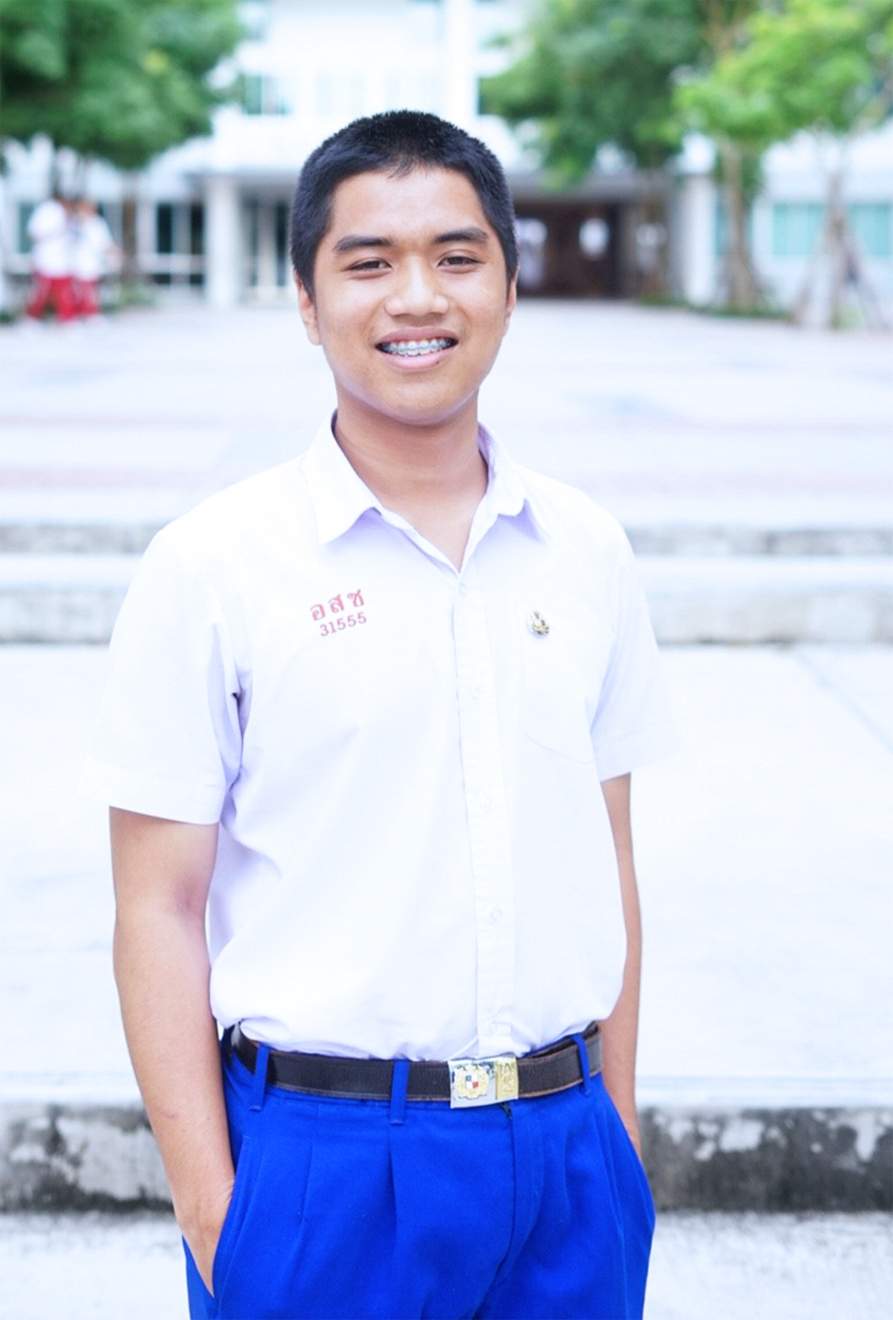
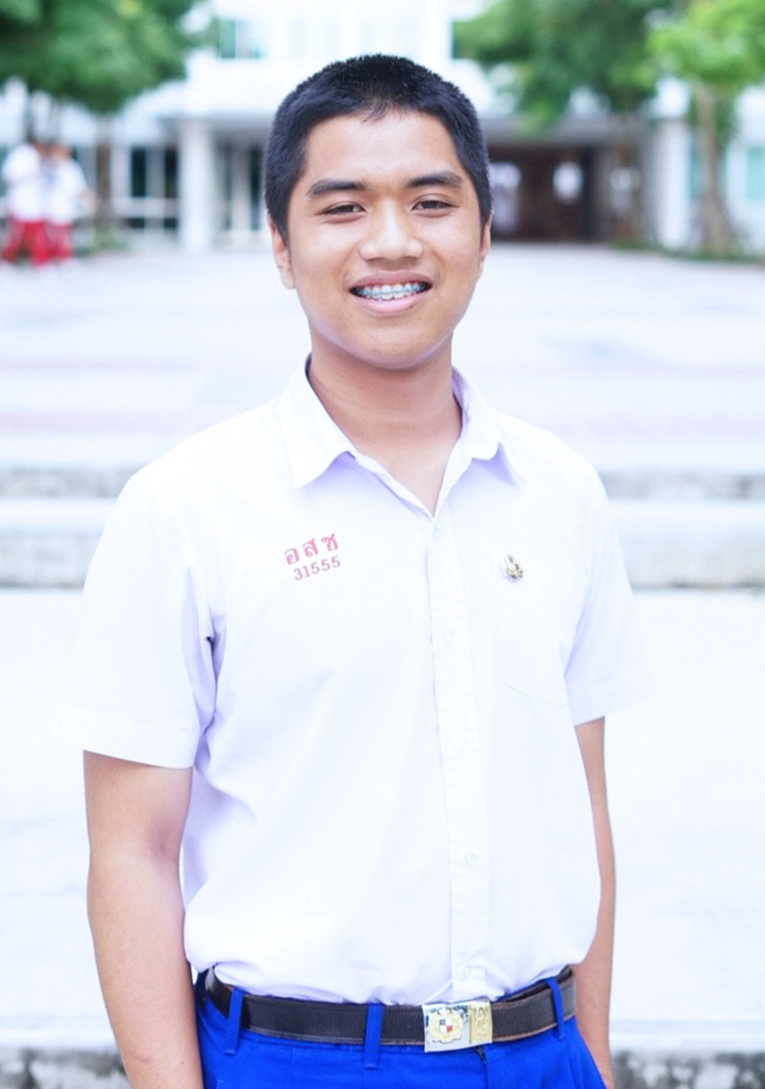
[UPDATE] Update Profiles

diff --git a/index.html b/index.html
@@ -1,105 +1,182 @@
 <!DOCTYPE html>
 <html>
+
 <head>
 	<title>Portfolio</title>
 	<link rel="stylesheet" type="text/css" href="styles.css">
 	<link rel="stylesheet" type="text/css" href="hover.css">
 	<script type="text/javascript" src="js/jquery-3.3.1.min.js"></script>
-	<link rel="icon" href="favicon.ico" type="image/x-icon"/>
+	<link rel="icon" href="favicon.ico" type="image/x-icon" />
+	<link rel="preconnect" href="https://fonts.gstatic.com">
+	<link href="https://fonts.googleapis.com/css2?family=Teko:wght@400;600&display=swap" rel="stylesheet">
 </head>
+
 <body>
-  <div class="title fade-in">PORTFOLIO</div>
-  <div class="header-container fade-in fade-in-delayed">
-  	<div class="imgdiv">
-  	 <img src="img/profile.jpg">	
-  	</div>
-  	<div class="profile-container">
-  		<div class="list-member"><p><span class="bold">Name</span> Ruangrit Kaewkrom</p></div>
-        <div class="list-member"><p><span class="bold">Age</span> 18</p></div>
-        <div class="list-member"><p><span class="bold">School</span> Assumption College Sriracha</p></div>
-        <div class="list-member"><p><span class="bold">Nationality</span> Thai</p></div>
-  	</div>
-  </div>
-   <div class="graph-container fade-in fade-in-delayed2">
-   	<h1>Computer Related Skills</h1>
-   <div class="graph container"></div>
-    <p>HTML&CSS</p>
-<div class="container">
-  <div class="skills html">Proficient</div>
-</div>
+	<div class="title fade-in">Online Portfolio</div>
+	<div class="header-container fade-in fade-in-delayed">
+		<div class="image-container">
+			<img src="img/profile.jpg">
+		</div>
+		<div class="profile-container">
+			<div class="list-member">
+				<p><span class="bold">Name</span> Ruangrit Kaewkrom</p>
+			</div>
+			<div class="list-member">
+				<p><span class="bold">Age</span> <em>(17 November 1999)</em></p>
+			</div>
+			<div class="list-member">
+				<p><span class="bold">College</span> King Mongkut's University of Technology Thonburi</p>
+			</div>
+			<div class="list-member">
+				<p><span class="bold">Nationality</span> Thai</p>
+			</div>
+			
+			<div class="list-member">
+			<a target="_blank" href="https://github.com/akira2542"><button class="button hvr-sweep-to-left">GitHub</button></a>
+			</div>
 
-<p>Java</p>
-<div class="container">
-  <div class="skills java">Beginner</div>
-</div>
-<p>Phyton</p>
-<div class="container">
-  <div class="skills python">Beginner</div>
-</div>
-<p>JavaScript</p>
-<div class="container">
-  <div class="skills js">Novice</div>
-</div>
+		</div>
+	</div>
+	<div class="graph-container fade-in fade-in-delayed2">
+		<h1>Computer Related Skills</h1>
+		<div class="graph container"></div>
+		<p>HTML&CSS</p>
+		<div class="container">
+			<div class="skills html">Expert</div>
+		</div>
 
-<p>PHP</p>
-<div class="container">
-  <div class="skills php">Novice</div>
-</div>
-</div>
-<div class="infotext fade-in fade-in-delayed3">
-<p>Able to utilize or have experince with</p>
-<div class="infotext-container">
-	<div class="coloredbutton purple hvr-float-shadow">Bootstrap</div>・<div class="coloredbutton blue hvr-float-shadow">Jquery</div>・
-	<div class="coloredbutton lightblue hvr-float-shadow">React</div>・<div class="coloredbutton green hvr-float-shadow">NodeJS</div>・<div class="coloredbutton orange hvr-float-shadow">Linux</div>
-</div>
-</div>
+		<p>Java</p>
+		<div class="container">
+			<div class="skills java">Proficient</div>
+		</div>
+		<p>Phyton</p>
+		<div class="container">
+			<div class="skills python">Beginner</div>
+		</div>
+		<p>JavaScript</p>
+		<div class="container">
+			<div class="skills js">Proficient</div>
+		</div>
 
- <div class="worklist fade-in fade-in-delayed4">
-    <h1>My Project</h1>
- 	<div class="worklist-container">
- 		<div class="worklist-member hvr-underline-from-left" id="CPS">
- 			<p>Computer Project SaleTrack ⭳</p>
- 		</div>	
- 		<div class="worklist-info" id="saletrackinfo">
- 			<div class="saletrack-title">SALETRACK</div>
- 			<div class="image-container">
- 				<img src="img/saletrack-1.jpg"><img src="img/saletrack-2.jpg">
- 			</div>
- 			<p>โครงงานคอมพิวเตอร์โรงเรียนอัสสัมชัญศรีราชา ของผม SaleTrack
-เป็น Web-Application ที่ทำหน้าที่เป็นโปรเเกรมบันทึกการขายสินค้าต่างๆ
-เเละสรุแข้อมูลออกมาให้เห็น เพื่อให้ง่ายต่อการติดตามยอดขาย กำไร
-ของสินค้าหลายๆชิ้น ออกเเบบมาเพื่อ ผู้ที่ทำธุรกิจขายของขนาดย่อม
-โดย Web-Application มีภาษา Back-End เป็น PHP 
-โดยใช้ Apache Webserver โดยมี mySQL เป็น Database
-มีความพิเศษคือจัดการ Database ต่างๆด้วย PHP การเก็บข้อมูลเเยกระหว่างสินค้า ต่างๆ การดึงข้อมูลละวันที่ออกมาเเสดงผล</p>
- 			<p>This handy web-app is made for small enterprenuer who want an easy way to keep track of the products they're selling. Me,the creator of this website,my self also once was a petty enterprenuer selling cheap products in small quantities find it pretty hard to keep track of everything I sell. I hope this site will be someone's life a littlebit easier!</p>
- 			<a href="http://myaws2018.bitnamiapp.com"><button class="button2">Visit Website</button></a>
-      <a href="https://github.com/akira2542/SaleTrack"><button class="button">GitHub Repository</button></a>
-      
- 		</div>
- 		<div class="worklist-member hvr-underline-from-left" id="mlq">
- 			<p>Responsive Web blog (Midline-Question) ⭳</p>
- 		</div>
- 		 		<div class="worklist-info" id="mlqinfo">
- 			<div class="midline-title">Midline-Question</div>
- 			<div class="image-container" id="muimg">
- 				<img src="img/mu1.JPG"><img src="img/mu2.JPG"><img src="img/mu3.JPG">
- 			</div>
- 			<p>เป็นเว็บบล็อคเเรกที่ผมเขียนขึ้นมา เป็นเว็บที่ออกมาเเบบ Responsive โปรเจ็คนี้ผมได้ใส่ระบบสมัคร เเละล็อค อินเข้าไป เขียนด้วย PHP เป็นภาษา Back-End</p>
- 			<a href="http://myaws2018.bitnamiapp.com/mq"><button class="button2">Visit Website</button></a>
-      <a href="https://github.com/akira2542/Midline-Question"><button class="button">GitHub Repository</button></a>
-      
- 		</div>
- 	</div>
-</div>
+		<p>PHP</p>
+		<div class="container">
+			<div class="skills php">Novice</div>
+		</div>
+	</div>
+	<div class="infotext fade-in fade-in-delayed3">
+		<p>Able to utilize or have experince with</p>
+		<div class="infotext-container">
+			<div class="coloredbutton purple">Bootstrap</div>・<div
+				class="coloredbutton blue">Jquery</div>・
+			<div class="coloredbutton lightblue">ReactJs</div>・<div
+				class="coloredbutton green">Laravel</div>・<div
+				class="coloredbutton orange">Linux</div>・<div
+				class="coloredbutton green">NextJs</div>
+		</div>
+	</div>
 
-<script type="text/javascript">
-          $( "#CPS" ).click(function() {
-          $("#saletrackinfo").slideToggle(500);
-  });
-          $( "#mlq" ).click(function() {
-          $("#mlqinfo").slideToggle(500);
-  });
-</script>
+	<div class="worklist fade-in fade-in-delayed4">
+		<h1>My Project</h1>
+		<div class="worklist-container">
+			<div class="worklist-member hvr-underline-from-left" id="CPS">
+				<p>Computer Project SaleTrack ⭳</p>
+			</div>
+			<div class="worklist-info" id="saletrackinfo">
+				<div class="saletrack-title">SALETRACK</div>
+				<div class="image-container">
+					<img src="img/saletrack-1.jpg"><img src="img/saletrack-2.jpg">
+				</div>
+				<p>โครงงานคอมพิวเตอร์โรงเรียนอัสสัมชัญศรีราชา ของผม SaleTrack
+					เป็น Web-Application ที่ทำหน้าที่เป็นโปรเเกรมบันทึกการขายสินค้าต่างๆ
+					เเละสรุแข้อมูลออกมาให้เห็น เพื่อให้ง่ายต่อการติดตามยอดขาย กำไร
+					ของสินค้าหลายๆชิ้น ออกเเบบมาเพื่อ ผู้ที่ทำธุรกิจขายของขนาดย่อม
+					โดย Web-Application มีภาษา Back-End เป็น PHP
+					โดยใช้ Apache Webserver โดยมี mySQL เป็น Database
+					มีความพิเศษคือจัดการ Database ต่างๆด้วย PHP การเก็บข้อมูลเเยกระหว่างสินค้า ต่างๆ
+					การดึงข้อมูลละวันที่ออกมาเเสดงผล</p>
+				<p>This handy web-app is made for small enterprenuer who want an easy way to keep track of the products
+					they're selling. Me,the creator of this website,my self also once was a petty enterprenuer selling
+					cheap products in small quantities find it pretty hard to keep track of everything I sell. I hope
+					this site will be someone's life a littlebit easier!</p>
+				<a target="_blank" href="http://myaws2018.bitnamiapp.com"><button class="button2">Visit Website</button></a>
+				<a target="_blank" href="https://github.com/akira2542/SaleTrack"><button class="button">GitHub Repository</button></a>
+
+			</div>
+			<div class="worklist-member hvr-underline-from-left" id="mlq">
+				<p>Web blog (Midline-Question) ⭳</p>
+			</div>
+			<div class="worklist-info" id="mlqinfo">
+				<div class="midline-title">Midline-Question</div>
+				<div class="image-container" id="muimg">
+					<img src="img/mu1.JPG"><img src="img/mu2.JPG"><img src="img/mu3.JPG">
+				</div>
+				<p>เป็นเว็บบล็อคเเรกที่ผมเขียนขึ้นมา เป็นเว็บที่ออกมาเเบบ Responsive โปรเจ็คนี้ผมได้ใส่ระบบสมัคร
+					เเละล็อค อินเข้าไป เขียนด้วย PHP เป็นภาษา Back-End</p>
+				<a target="_blank" href="http://myaws2018.bitnamiapp.com/mq"><button class="button2">Visit Website</button></a>
+				<a target="_blank" href="https://github.com/akira2542/Midline-Question"><button class="button">GitHub
+						Repository</button></a>
+
+			</div>
+			<div class="worklist-member hvr-underline-from-left" id="rp">
+				<p>Hello World 2019 Web Design : RedPanda ⭳</p>
+			</div>
+			<div class="worklist-info" id="rpinfo">
+				<div class="midline-title">RedPanda</div>
+				<div class="image-container" id="muimg">
+					<img src="img/rp1.JPG"><img src="img/rp2.JPG">
+				</div>
+				<p>เป็นการออกแบบเวบไซต์เพื่อเป็นโปรเเจ็คส่งในค่าย Hello World 2019 ในช่วงที่ผมยังน้องเข้าร่วมค่าย ได้รับการเรียนรู้ใน วิธีการออกแบบเว็บไซต์ ทั้ง UX เเละ UI ที่ดี</p>
+				<a target="_blank" href="https://www.figma.com/file/J63xgL8w11506dFhB7BP00/Red-Panda?node-id=0%3A1"><button class="button">Figma
+						</button></a>
+
+			</div>
+			<div class="worklist-member hvr-underline-from-left" id="wip">
+				<p>WIP camp #12 PR Website ⭳</p>
+			</div>
+			<div class="worklist-info" id="wipinfo">
+				<div class="midline-title">WIP camp #12</div>
+				<div class="image-container" id="muimg">
+					<img src="img/wip1.JPG"><img src="img/wip2.JPG"><img src="img/wip3.JPG">
+				</div>
+				<p>เป็นเว็บเเรกที่ได้ทำงานเป็นทีมเเบบจริง ๆ จัง ๆ โดยที่เว็ปไซต์นี้มี stack เป็น NextJs ผมทำหน้าที่จัดการเรื่อง Navbat / Hamburger / ลูกเล่นต่าง ๆ ในหน้า FAQs ซึ่งในช่วงนี้ลูกเล่นส่วนใหญ่เป็นการดาวโหลดน์ Dependencies มาใช้ / เเละดูเเล Responsive โดยรวม</p>
+				<a target="_blank" href="https://wip.camp/"><button class="button2">Visit Website</button></a>
+				<a target="_blank" href="https://github.com/wipcamp/12-frontend"><button class="button">GitHub
+						Repository</button></a>
+
+			</div>
+			<div class="worklist-member hvr-underline-from-left" id="dp">
+				<p>SIT Hello World 2020 PR Website ⭳</p>
+			</div>
+			<div class="worklist-info" id="dpinfo">
+				<div class="midline-title">HelloDolphin</div>
+				<div class="image-container" id="muimg">
+					<img src="img/dp1.JPG"><img src="img/dp2.JPG">
+				</div>
+				<p>คราวนี้ถึงครามเป็นหัวหน้าฝ่าย FrontEnd เเล้วนะครับ การทำงานใช้ stack เป็น ReactJs เหมือนเดิม ต่างกันคือใช้ Parcel เป็นตัว build นะครับ เเละเว็บนี้ ลูกเล่นต่าง ๆ ใช้ Dependencies น้องลงเเละเปลี่ยนเป็นรูปแบบเขียนเองมากขึ้น สำหรับการเรียนรู้ และสามารถปรับปรุงได้ตามที่เราต้องการ ผม ทำหน้าที่ส่วน Navbar / Hambergur / FAQs เเละ Responsive โดยรวม</p>
+				<a target="_blank" href="https://hellodolphin.in.th/"><button class="button2">Visit Website</button></a>
+				<a target="_blank" href="https://github.com/akira2542/hello-dolphin"><button class="button">GitHub
+						Repository</button></a>
+			</div>
+		</div>
+	</div>
+
+	<script type="text/javascript">
+		$("#CPS").click(function () {
+			$("#saletrackinfo").slideToggle(500);
+		});
+		$("#mlq").click(function () {
+			$("#mlqinfo").slideToggle(500);
+		});
+		$("#rp").click(function () {
+			$("#rpinfo").slideToggle(500);
+		});
+		$("#wip").click(function () {
+			$("#wipinfo").slideToggle(500);
+		});
+		$("#dp").click(function () {
+			$("#dpinfo").slideToggle(500);
+		});
+	</script>
 </body>
+
 </html>

diff --git a/styles.css b/styles.css
@@ -10,12 +10,14 @@ html, body, div, span, applet, object, iframe, h1, h2, h3, h4, h5, h6, p, blockq
 .title {
 	color: white;
 	font-size: 3em;
+	line-height: 1em;
+	padding-top: 5px;
+	font-family: 'Teko', sans-serif;
 	text-align: center;
 	border-bottom: 1px solid #cecece;
 	background: #000046;  /* fallback for old browsers */
-background: -webkit-linear-gradient(to right, #1CB5E0, #000046);  /* Chrome 10-25, Safari 5.1-6 */
-background: linear-gradient(to right, #1CB5E0, #000046); /* W3C, IE 10+/ Edge, Firefox 16+, Chrome 26+, Opera 12+, Safari 7+ */
-
+	background: -webkit-linear-gradient(to right, #1CB5E0, #000046);  /* Chrome 10-25, Safari 5.1-6 */
+	background: linear-gradient(to right, #1CB5E0, #000046); /* W3C, IE 10+/ Edge, Firefox 16+, Chrome 26+, Opera 12+, Safari 7+ */
 
 }
 .header-container {
@@ -25,9 +27,8 @@ background: linear-gradient(to right, #1CB5E0, #000046); /* W3C, IE 10+/ Edge, F
     padding: 10px;
 }
 .header-container img{
- height: 180px;
- border-radius: 50%;
-
+ height: 220px;
+ margin-top: 10px;
 }
 .list-member {
 	border-bottom:1px solid #cecece;
@@ -113,11 +114,11 @@ background: linear-gradient(to right, #1CB5E0, #000046); /* W3C, IE 10+/ Edge, F
     color: white; 
 }
 
-.html {width: 60%; background: #00F260;  /* fallback for old browsers */
+.html {width: 80%; background: #00F260;  /* fallback for old browsers */
 background: -webkit-linear-gradient(to right, #0575E6, #00F260);  /* Chrome 10-25, Safari 5.1-6 */
 background: linear-gradient(to right, #0575E6, #00F260); /* W3C, IE 10+/ Edge, Firefox 16+, Chrome 26+, Opera 12+, Safari 7+ */
 } 
-.java {width: 20%; background: #00B4DB;  /* fallback for old browsers */
+.java {width: 60%; background: #00B4DB;  /* fallback for old browsers */
 background: -webkit-linear-gradient(to right, #0083B0, #00B4DB);  /* Chrome 10-25, Safari 5.1-6 */
 background: linear-gradient(to right, #0083B0, #00B4DB); /* W3C, IE 10+/ Edge, Firefox 16+, Chrome 26+, Opera 12+, Safari 7+ */
 ; /* W3C, IE 10+/ Edge, Firefox 16+, Chrome 26+, Opera 12+, Safari 7+ */
@@ -129,7 +130,7 @@ background: linear-gradient(to right, #0083B0, #00B4DB); /* W3C, IE 10+/ Edge, F
 ; /* W3C, IE 10+/ Edge, Firefox 16+, Chrome 26+, Opera 12+, Safari 7+ */
 
 } 
-.js {width: 35%; background: #7F7FD5;  /* fallback for old browsers */
+.js {width: 70%; background: #7F7FD5;  /* fallback for old browsers */
 background: -webkit-linear-gradient(to right, #91EAE4, #86A8E7, #7F7FD5);  /* Chrome 10-25, Safari 5.1-6 */
 background: linear-gradient(to right, #91EAE4, #86A8E7, #7F7FD5); /* W3C, IE 10+/ Edge, Firefox 16+, Chrome 26+, Opera 12+, Safari 7+ */
 } 
@@ -160,6 +161,7 @@ background: linear-gradient(to right, #91EAE4, #86A8E7, #7F7FD5); /* W3C, IE 10+
 	border-bottom: 1px solid #cecece;
 }
 .worklist-info {
+	display: none;
 	width: 90%;
 	margin: 0 auto;
 }
@@ -169,7 +171,7 @@ background: linear-gradient(to right, #91EAE4, #86A8E7, #7F7FD5); /* W3C, IE 10+
 	font-family: sans-serif;
 }
 .image-container img{
-	height: 180px
+	height: 220px
 }
 .saletrack-title {
 margin-top:10px;
